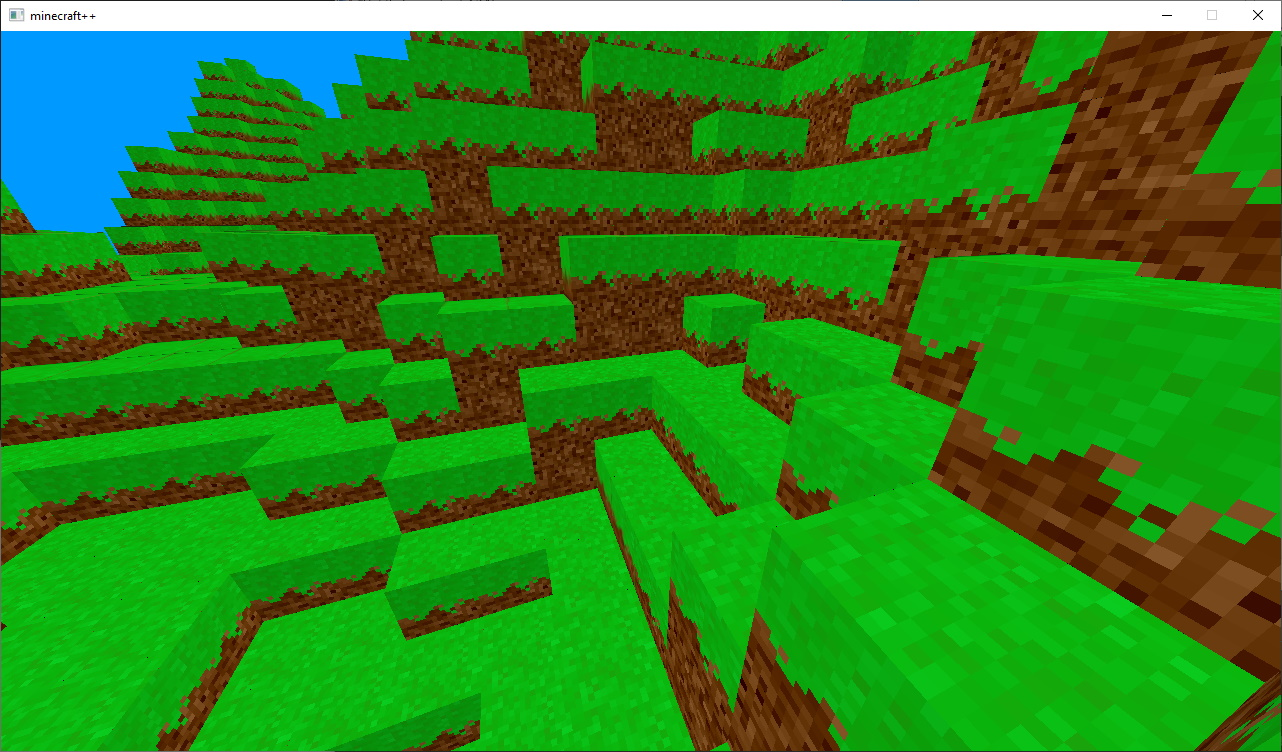
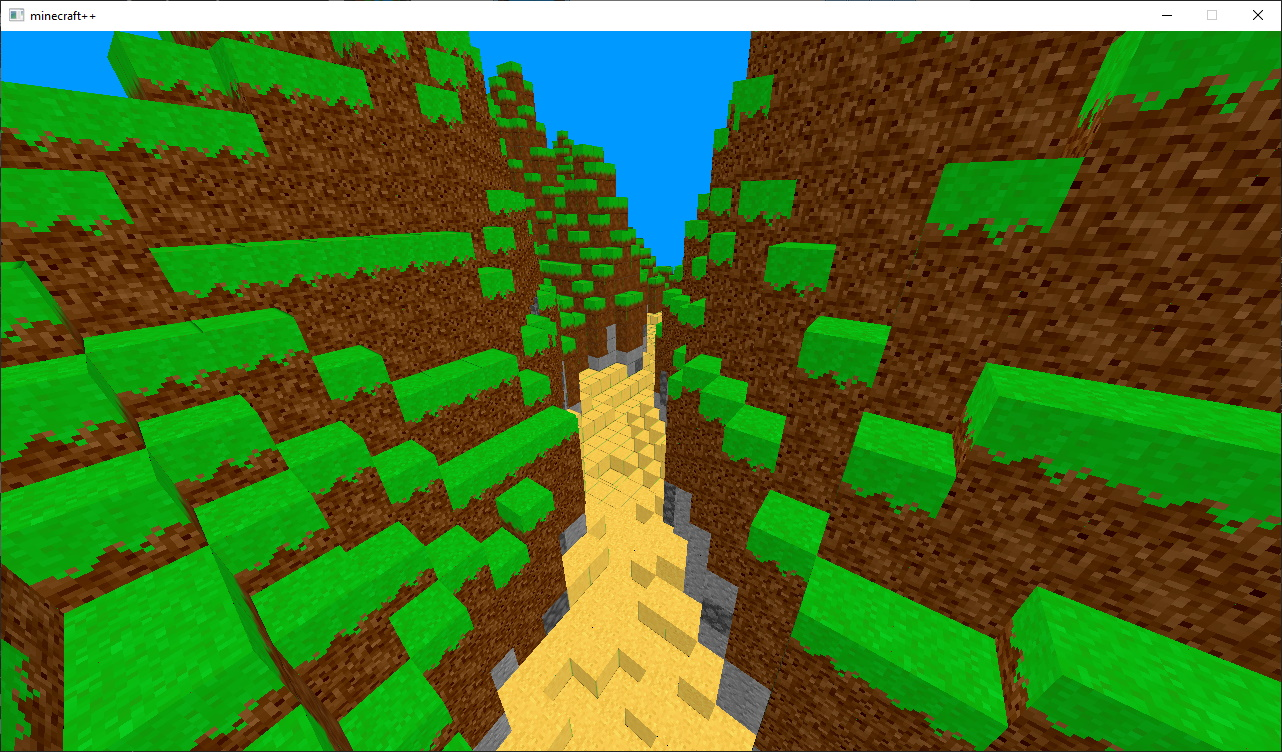
Added screenshots, changed world generation

diff --git a/source/world/chunk.cpp b/source/world/chunk.cpp
@@ -1,6 +1,7 @@
 #include "chunk.hpp"
 
 #include <glad/glad.h>
+#include <random>
 #include <iostream>
 
 #include "world.hpp"
@@ -15,8 +16,13 @@
 
 Chunk::Chunk(int x, int y, int z, World *world):
 	m_position(x, y, z),
-	m_world(world),
-	m_block_data(new unsigned char[CHUNK_X * CHUNK_Y * CHUNK_Z]) {
+	m_world(world) {
+
+	// fill blocks array
+	for(int x = 0; x < CHUNK_X; ++x)
+	for(int y = 0; y < CHUNK_Y; ++y)
+	for(int z = 0; z < CHUNK_Z; ++z)
+		m_block_data[x][z][y] = Blocks::AIR;
 
 	// generate buffers, give to the shaders matrices
 	glGenBuffers(1, &m_vbo);
@@ -38,7 +44,7 @@ void Chunk::setWorld(World* world) {
 }
 
 void Chunk::setBlock(int x, int y, int z, unsigned char type) {
-	m_block_data[x * CHUNK_Y * CHUNK_Z + y * CHUNK_Z + z] = type;
+	m_block_data[x][z][y] = type;
 	m_should_update = true;
 }
 
@@ -47,7 +53,7 @@ unsigned char Chunk::getBlock(int x, int y, int z) {
 	if (x >= CHUNK_X || x < 0 || y >= CHUNK_Y || y < 0 || z >= CHUNK_Z || z < 0)
 		return Blocks::AIR;
 
-	return m_block_data[x * CHUNK_Y * CHUNK_Z + y * CHUNK_Z + z];
+	return m_block_data[x][z][y];
 }
 
 void Chunk::generateMesh() {
@@ -168,23 +174,39 @@ void Chunk::generateMesh() {
 }
 
 void Chunk::generateTerrain() {
-	static PerlinNoise pn(250);
+	static PerlinNoise noise_generator (250);
+	static std::default_random_engine e;
+	static std::bernoulli_distribution d(0.8);
 
 	m_element_count = 0;
 	for(int x = 0; x < CHUNK_X; ++x)
 		for(int z = 0; z < CHUNK_Z; ++z) {
-			int height_value = 20 + (int)(pn.noise((m_position.x + x) * 0.01f, (m_position.z +z) * 0.01f) * 10) + pn.noise((m_position.x + x) * 0.1f, (m_position.z +z) * 0.1f) * 15;
+			int biome_value = noise_generator.noise((m_position.x + x) * 0.1f, (m_position.z + z) * 0.1f) * 10;
+			int height_value = (noise_generator.noise((m_position.x + x) * 0.1f, (m_position.z + z) * 0.1f) * 2 + noise_generator.noise((m_position.x + x) * 0.01f, (m_position.z + z) * 0.01f)) * 10;
 			for(int y = 0; y < CHUNK_Y; ++y) {
-				if (y <= height_value) {
-					if (y == height_value) setBlock(x, y, z, Blocks::GRASS);
-					else if (y < height_value && y > height_value - 4) setBlock(x, y, z, Blocks::DIRT);
-					else if (y <= height_value -4) setBlock(x, y, z, Blocks::STONE);
+				if(biome_value < 0) {
+					if (y < height_value * 0.5 + 19) {
+						setBlock(x, y, z, Blocks::SAND);
+						++m_element_count;
+					}
+				} else if( y <= height_value + 20 ) {
+					
+					if (y == height_value + 20) {
+						setBlock(x, y, z, Blocks::GRASS);
+					} else if(y > height_value + 16 ) {
+						setBlock(x, y, z, Blocks::DIRT);
+					} else {
+						if(d(e))
+							setBlock(x, y, z, Blocks::STONE);
+						else
+							setBlock(x, y, z, Blocks::COBBLESTONE);
+					}
 
 					++m_element_count;
+
 				}
-				else
-					setBlock(x, y, z, Blocks::AIR);
 			}
+
 		}
 	
 }

diff --git a/source/world/world.cpp b/source/world/world.cpp
@@ -18,6 +18,15 @@ World::World():
 	m_shader.setMat4("projection", glm::value_ptr(projection_matrix));
 
 	// construct chunks
+	m_chunks = new Chunk[CHUNK_X * CHUNK_Z];
+	for(int i = 0; i < WORLD_X; ++i)
+		for (int j = 0; j < WORLD_Z; ++j) {
+			m_chunks[j * CHUNK_X + i].setPosition(i * 16, 0, j * 16);
+			m_chunks[j * CHUNK_X + i].setWorld(this);
+			m_chunks[j * CHUNK_X + i].generateTerrain();
+		}
+
+/*
 	for(int i = 0; i < WORLD_X; ++i)
 		for (int j = 0; j < WORLD_Z; ++j) {
 			m_chunks[i][j].setPosition(i * 16, 0, j * 16);
@@ -25,6 +34,7 @@ World::World():
 			m_chunks[i][j].generateTerrain();
 			//m_chunks[i][j] = Chunk(i * 16, 0, 16 * j, this);
 		}
+*/
 }
 
 World::~World() {
@@ -41,7 +51,7 @@ void World::setBlock(int x, int y, int z, unsigned char type) {
 	int coord_x = x % CHUNK_X,
 		coord_z = z % CHUNK_Z;
 	
-	m_chunks[chunk_x][chunk_z].setBlock(coord_x, y, coord_z, type);
+	m_chunks[chunk_x + chunk_z * CHUNK_X].setBlock(coord_x, y, coord_z, type);
 }
 
 unsigned char World::getBlock(int x, int y, int z) {
@@ -54,7 +64,7 @@ unsigned char World::getBlock(int x, int y, int z) {
 	int coord_x = x % CHUNK_X,
 		coord_z = z % CHUNK_Z;
 
-	return m_chunks[chunk_x][chunk_z].getBlock(coord_x, y, coord_z);
+	return m_chunks[chunk_x + chunk_z * CHUNK_X].getBlock(coord_x, y, coord_z);
 }
 
 void World::draw( Camera &camera ) {
@@ -65,5 +75,5 @@ void World::draw( Camera &camera ) {
 
 	for(int i = 0; i < WORLD_X; ++i)
 		for(int j = 0; j < WORLD_Z; ++j)
-			m_chunks[i][j].draw(camera, m_tilset, m_shader);
+			m_chunks[j * CHUNK_X + i].draw(camera, m_tilset, m_shader);
 }

diff --git a/source/world/block.hpp b/source/world/block.hpp
@@ -4,23 +4,23 @@
 namespace Blocks {
 
 	enum BlockType: unsigned char {
-	AIR = 0,
-	DIRT,
-	GRASS,
-	WOOD,
-	STONE,
-	MOSSY_STONE,
-	IRON_ORE,
-	COAL,
-	DIAMOND_ORE,
-	GOLD_ORE,
-	COBBLESTONE,
-	MOSSY_COBBLESTONE,
-	LEAF,
-	SAND,
-	MOSSY_BRICK,
-	BRICK
-};
+		AIR = 0,
+		DIRT,
+		GRASS,
+		WOOD,
+		STONE,
+		MOSSY_STONE,
+		IRON_ORE,
+		COAL,
+		DIAMOND_ORE,
+		GOLD_ORE,
+		COBBLESTONE,
+		MOSSY_COBBLESTONE,
+		LEAF,
+		SAND,
+		MOSSY_BRICK,
+		BRICK
+	};
 
 	// +x, -x, +y, -y, +z, -z
 	const unsigned char block_faces[][6] {

diff --git a/source/world/chunk.hpp b/source/world/chunk.hpp
@@ -38,7 +38,7 @@ private:
 	bool m_should_update = true;
 	
 	unsigned m_vao, m_vbo;
-	unsigned char *m_block_data;
+	unsigned char m_block_data[CHUNK_X][CHUNK_Z][CHUNK_Y];
 
 	glm::ivec3 m_position;
 

diff --git a/source/world/world.hpp b/source/world/world.hpp
@@ -24,8 +24,8 @@ private:
 	Shader m_shader;
 	Texture m_tilset;
 
-	Chunk m_chunks[WORLD_X][WORLD_Z];
-
+	//Chunk m_chunks[WORLD_X][WORLD_Z];
+	Chunk *m_chunks;
 };
 
 
